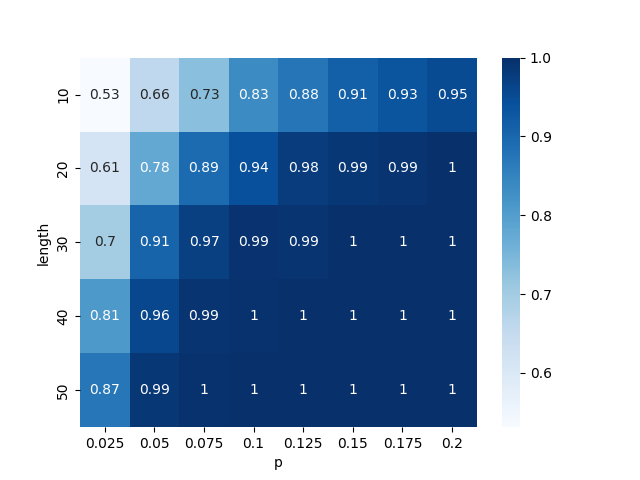
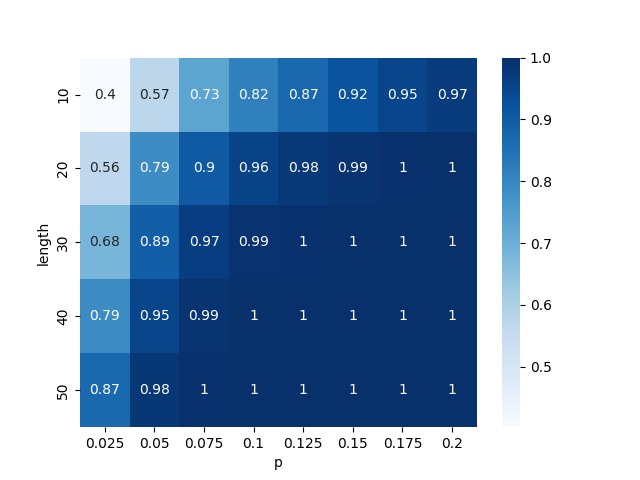
Debugged and reran param sweep

diff --git a/mask.py b/mask.py
@@ -215,8 +215,8 @@ class Particle:
         if self.stuck:
             return True
         # print(self.pos)
-        if self.made_through(np.shape(self.grid)[0]-2):
-            return False
+        if self.made_through():
+            return
         position_grid = np.zeros(np.shape(self.grid), dtype=np.int8)
         position_grid[self.pos] = 1
         movement_grid = correlate2d(position_grid, MOVEMENT_KERNEL, mode="same")
@@ -226,8 +226,9 @@ class Particle:
         self.stuck = self.grid[next_pos] == 1
 
         self.pos = next_pos
-    def made_through(self, l):
-        if self.pos[0] == l+1:
+
+    def made_through(self):
+        if self.pos[0] == np.shape(self.grid)[0]-1:
             return True
     
     
@@ -251,7 +252,7 @@ class AgentSimulation:
         num_still_going = 0
         for particle in self.particles:
             particle.move()
-            if(particle.stuck or particle.made_through(self.l)):
+            if(particle.stuck or particle.made_through()):
                 pass
             else:
                 num_still_going += 1
@@ -262,7 +263,8 @@ class AgentSimulation:
         c = 0
         # a = []
         for particle in self.particles:
-            if particle.made_through(self.l):
+            # print(particle.pos)
+            if particle.pos[0] == self.l+1:
                 c += 1
         return c
                 

diff --git a/main.py b/main.py
@@ -33,9 +33,12 @@ def simulate_one(n_runs, l, w, p, n_agents):
     fracs = []
     for i in range(n_runs):
         sim = AgentSimulation(l, w, p, n_agents)
+        sim.simulate(200)
         fracs.append(1 - (sim.count_made_through()/n_agents))
+        # fracs.append(sim.count_made_through())
 
     avg_frac_through = np.mean(fracs)
+    # print(fracs)
     print(f'Length: {l}, Width: {w}, P(fiber): {p}, Number of Particles: {n_agents}, Efficacy: {avg_frac_through}')
     # return (l, w, p, n_agents, frac_through)
     return (l, p, avg_frac_through)
@@ -57,8 +60,8 @@ def param_sweep_shitshow():
         sim.step()'''
     # 
 
-    lens = [1, 5, 10, 20, 30, 40, 50]
-    ps = [0, 0.025, 0.05, 0.075, 0.1, 0.125, 0.15, 0.175, 0.2]
+    lens = [10, 20, 30, 40, 50]
+    ps = [0.025, 0.05, 0.075, 0.1, 0.125, 0.15, 0.175, 0.2]
     n_agents = 1000
     width = 200
     n_runs = 20
@@ -80,7 +83,7 @@ def param_sweep_shitshow():
     # headers = ["i", "length", "width", "p", "n_particles"]
     headers = ["length", "p", "frac_stopped"]
     output_rows.insert(0, headers)
-    print(output_rows)
+    # print(output_rows)
     
     # Write the output list to CSV
     wd = os.path.dirname(__file__)
